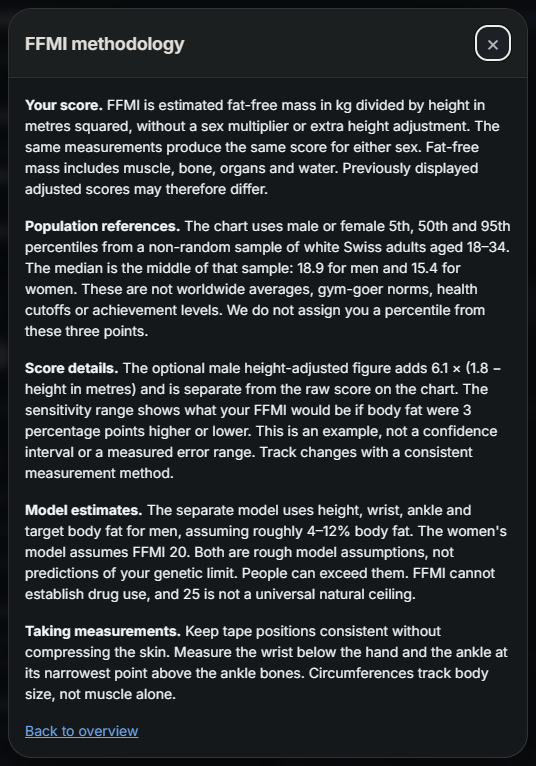
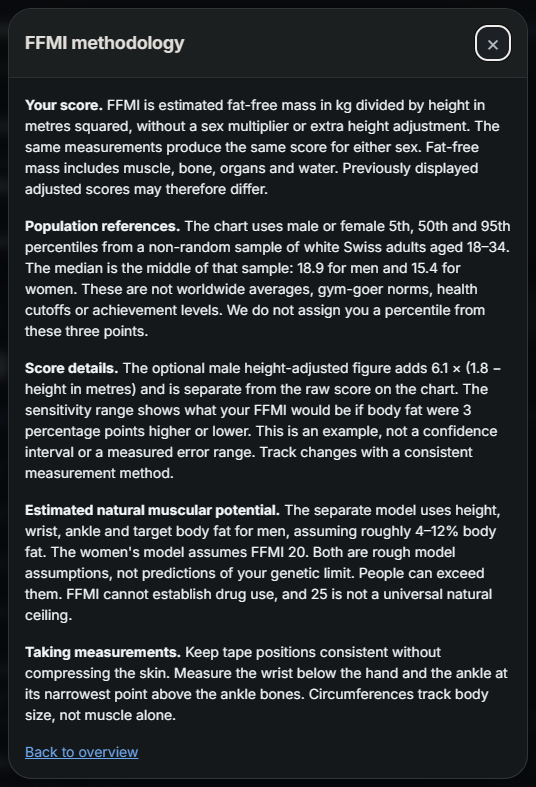
Clarify the estimated natural muscular potential wording

diff --git a/frontend/src/FfmiCard.test.tsx b/frontend/src/FfmiCard.test.tsx
@@ -208,7 +208,10 @@ describe('FfmiCard', () => {
     ]);
     expect(host.querySelector('.ffmi-score strong')?.textContent).toBe('26.1');
     expect(host.querySelector('.ffmi-scale-key')?.textContent).toBe('You 26.1');
-    expect(host.querySelector('.ffmi-frame-estimate')?.textContent).toContain('Model FFMI24.7');
+    expect(host.querySelector('.ffmi-frame-estimate')?.textContent).toContain('Estimated FFMI24.7');
+    expect(host.querySelector('.ffmi-frame-estimate summary')?.textContent).toBe(
+      'Estimated natural muscular potential',
+    );
     expect(host.querySelector('.ffmi-scale-marker.max')).toBeNull();
     expect(host.textContent).not.toMatch(/steroid user|Competitive|Exceptional reported/);
     expect(host.querySelector<HTMLDetailsElement>('.ffmi-frame-estimate')?.open).toBe(false);
@@ -245,7 +248,7 @@ describe('FfmiCard', () => {
     expect(host.querySelectorAll('.ffmi-legend li')).toHaveLength(3);
     expect(host.querySelectorAll('.ffmi-legend li.reached')).toHaveLength(0);
     expect(host.querySelector('.ffmi-potential')?.textContent).toContain(
-      'Reference weight at 13% fat',
+      'Estimated weight at 13% fat',
     );
   });
 
@@ -291,7 +294,10 @@ describe('FfmiCard', () => {
       { ...measurements[0], weight_kg: 60, body_fat_pct: 22 },
     ]);
     expect(host.querySelector('.ffmi-score span')).toBeNull();
-    expect(host.querySelector('.ffmi-frame-estimate')?.textContent).toContain('Model FFMI20.0');
+    expect(host.querySelector('.ffmi-frame-estimate')?.textContent).toContain('Estimated FFMI20.0');
+    expect(host.querySelector('.ffmi-frame-estimate summary')?.textContent).toBe(
+      'Estimated natural muscular potential',
+    );
     expect(host.querySelector('.ffmi-score-details')?.textContent).not.toContain('Height-adjusted');
     expect(host.querySelector('.ffmi-scale-key')?.textContent).toBe('You 17.2');
   });

diff --git a/frontend/src/FfmiCard.tsx b/frontend/src/FfmiCard.tsx
@@ -298,22 +298,22 @@ export function FfmiCard({
             </dl>
           </details>
           <details className="ffmi-details ffmi-frame-estimate">
-            <summary>{profile.sex === 'male' ? 'Frame-based estimate' : 'Model estimate'}</summary>
+            <summary>Estimated natural muscular potential</summary>
             {profile.sex === 'male' && (
               <p className="ffmi-model-assumption">Model assumes 4–12% body fat.</p>
             )}
             {estimate && (
               <dl className="ffmi-potential">
                 <div>
-                  <dt>Model FFMI</dt>
+                  <dt>Estimated FFMI</dt>
                   <dd>{estimate.ffmi.toFixed(1)}</dd>
                 </div>
                 <div>
-                  <dt>Reference lean mass</dt>
+                  <dt>Estimated lean mass</dt>
                   <dd>{formatWeight(estimate.leanMassKg, weightUnit, 1)}</dd>
                 </div>
                 <div>
-                  <dt>Reference weight at {profile.target_body_fat_pct}% fat</dt>
+                  <dt>Estimated weight at {profile.target_body_fat_pct}% fat</dt>
                   <dd>{formatWeight(estimate.bodyweightKg, weightUnit, 1)}</dd>
                 </div>
                 <div>

diff --git a/frontend/src/FfmiHelp.tsx b/frontend/src/FfmiHelp.tsx
@@ -72,11 +72,11 @@ export function FfmiHelp({ title = 'FFMI', children }: { title?: string; childre
                 range. Track changes with a consistent measurement method.
               </p>
               <p>
-                <strong>Model estimates.</strong> The separate model uses height, wrist, ankle and
-                target body fat for men, assuming roughly 4–12% body fat. The women's model assumes
-                FFMI 20. Both are rough model assumptions, not predictions of your genetic limit.
-                People can exceed them. FFMI cannot establish drug use, and 25 is not a universal
-                natural ceiling.
+                <strong>Estimated natural muscular potential.</strong> The separate model uses
+                height, wrist, ankle and target body fat for men, assuming roughly 4–12% body fat.
+                The women's model assumes FFMI 20. Both are rough model assumptions, not predictions
+                of your genetic limit. People can exceed them. FFMI cannot establish drug use, and
+                25 is not a universal natural ceiling.
               </p>
               <p>
                 <strong>Taking measurements.</strong> Keep tape positions consistent without

diff --git a/docs/RELEASE-NOTES.md b/docs/RELEASE-NOTES.md
@@ -68,7 +68,7 @@ _Each reference row has a question-mark with a short explanation using the selec
 
 _The score uses conventional FFMI for either sex. The saved icon changes the reference population, with matched median and percentile points. Score details and the frame-based model stay separate. Synthetic sample data._
 
-![Female reference population on the same standard FFMI scale, with the separate Model estimate open](screenshots/releases/1.1.0-ffmi-female.png)
+![Female reference population on the same standard FFMI scale, with the Estimated natural muscular potential open](screenshots/releases/1.1.0-ffmi-female.png)
 
 _The same synthetic height, weight and body-fat inputs still score 21.0; female population references change to 13.8, 15.4 and 17.6. The optional female model assumes raw FFMI 20._
 
@@ -156,7 +156,7 @@ _The circular Start button matches its workout choices. Isolated sample data._
 
 - **Your splits, one page:** all saved splits and templates live together. The active split has a blue border and opens to its next seven days; centred week/calendar buttons switch the preview. Its calendar uses the shared Home component, one month at a time, limited to the current and next month. Saved template cycles are greyed out to prevent duplicates, including after a reload or rename. Changing their saved workout/rest days or deleting the copy makes the template available again. Sharing and deletion live in each saved split's options instead of the editor. Your profile has a **My splits** button beside **Last 12 weeks**, without repeating the saved list or a Save current split button. Other members' profiles retain their shared splits and private copying. Use split confirms a start date and updates the Active badge without a success popup; Edit split can change that date or pause the plan. Saving stays on the page with temporary popup feedback. Unlinked plans remain visible without automatic writes and link atomically on save. Private plans can be activated before adding exercises; publishing still requires exercises on every workout day. Audience checks and blocks protect sharing; copies survive unsharing or deletion. Up next prefills planned sets unchecked.
 - **Body measurements:** log dated circumferences for neck, shoulders, chest, waist, hips, left/right upper arms, thighs and calves, wrist and ankle. Filter history by body part for dated values and changes from the previous recorded measurement, edit or delete entries, and use cm or inches with your unit preference. No weigh-in is required; records stay private and are included in account backups.
-- FFMI now uses fat-free mass divided by height squared for both sexes. The saved sex icon selects matched population 5th, median and 95th percentile references, replacing the athlete and drug-use ranking. A question-mark beside each reference explains it in plain language using the selected male or female value. Reference data describe a young-adult Swiss sample, not worldwide or gym-goer norms. Score details offers a separate male height-adjusted figure and an illustrative body-fat sensitivity range. The optional Frame-based estimate is separate from the chart and does not predict a personal genetic limit. Existing check-ins and saved dimensions are retained; earlier adjusted scores may differ. Both question-marks explain the change and limitations inside the app without external links.
+- FFMI now uses fat-free mass divided by height squared for both sexes. The saved sex icon selects matched population 5th, median and 95th percentile references, replacing the athlete and drug-use ranking. A question-mark beside each reference explains it in plain language using the selected male or female value. Reference data describe a young-adult Swiss sample, not worldwide or gym-goer norms. Score details offers a separate male height-adjusted figure and an illustrative body-fat sensitivity range. The optional Estimated natural muscular potential is separate from the chart and does not predict a personal genetic limit. Existing check-ins and saved dimensions are retained; earlier adjusted scores may differ. Both question-marks explain the change and limitations inside the app without external links.
 
 - Workout exercise headers show only the last-performed date, without the previous weights and reps beside it. **Equipment photo** no longer shows **Take or choose a photo** when no photos are saved, and its pinned-count pill has a grey background.
 - In Equipment photo, choose Select to pick multiple saved machines, review their cover, name and future settings, then merge them. All photos and workout links are kept together, including older drafts; settings recorded in existing workouts stay unchanged.
